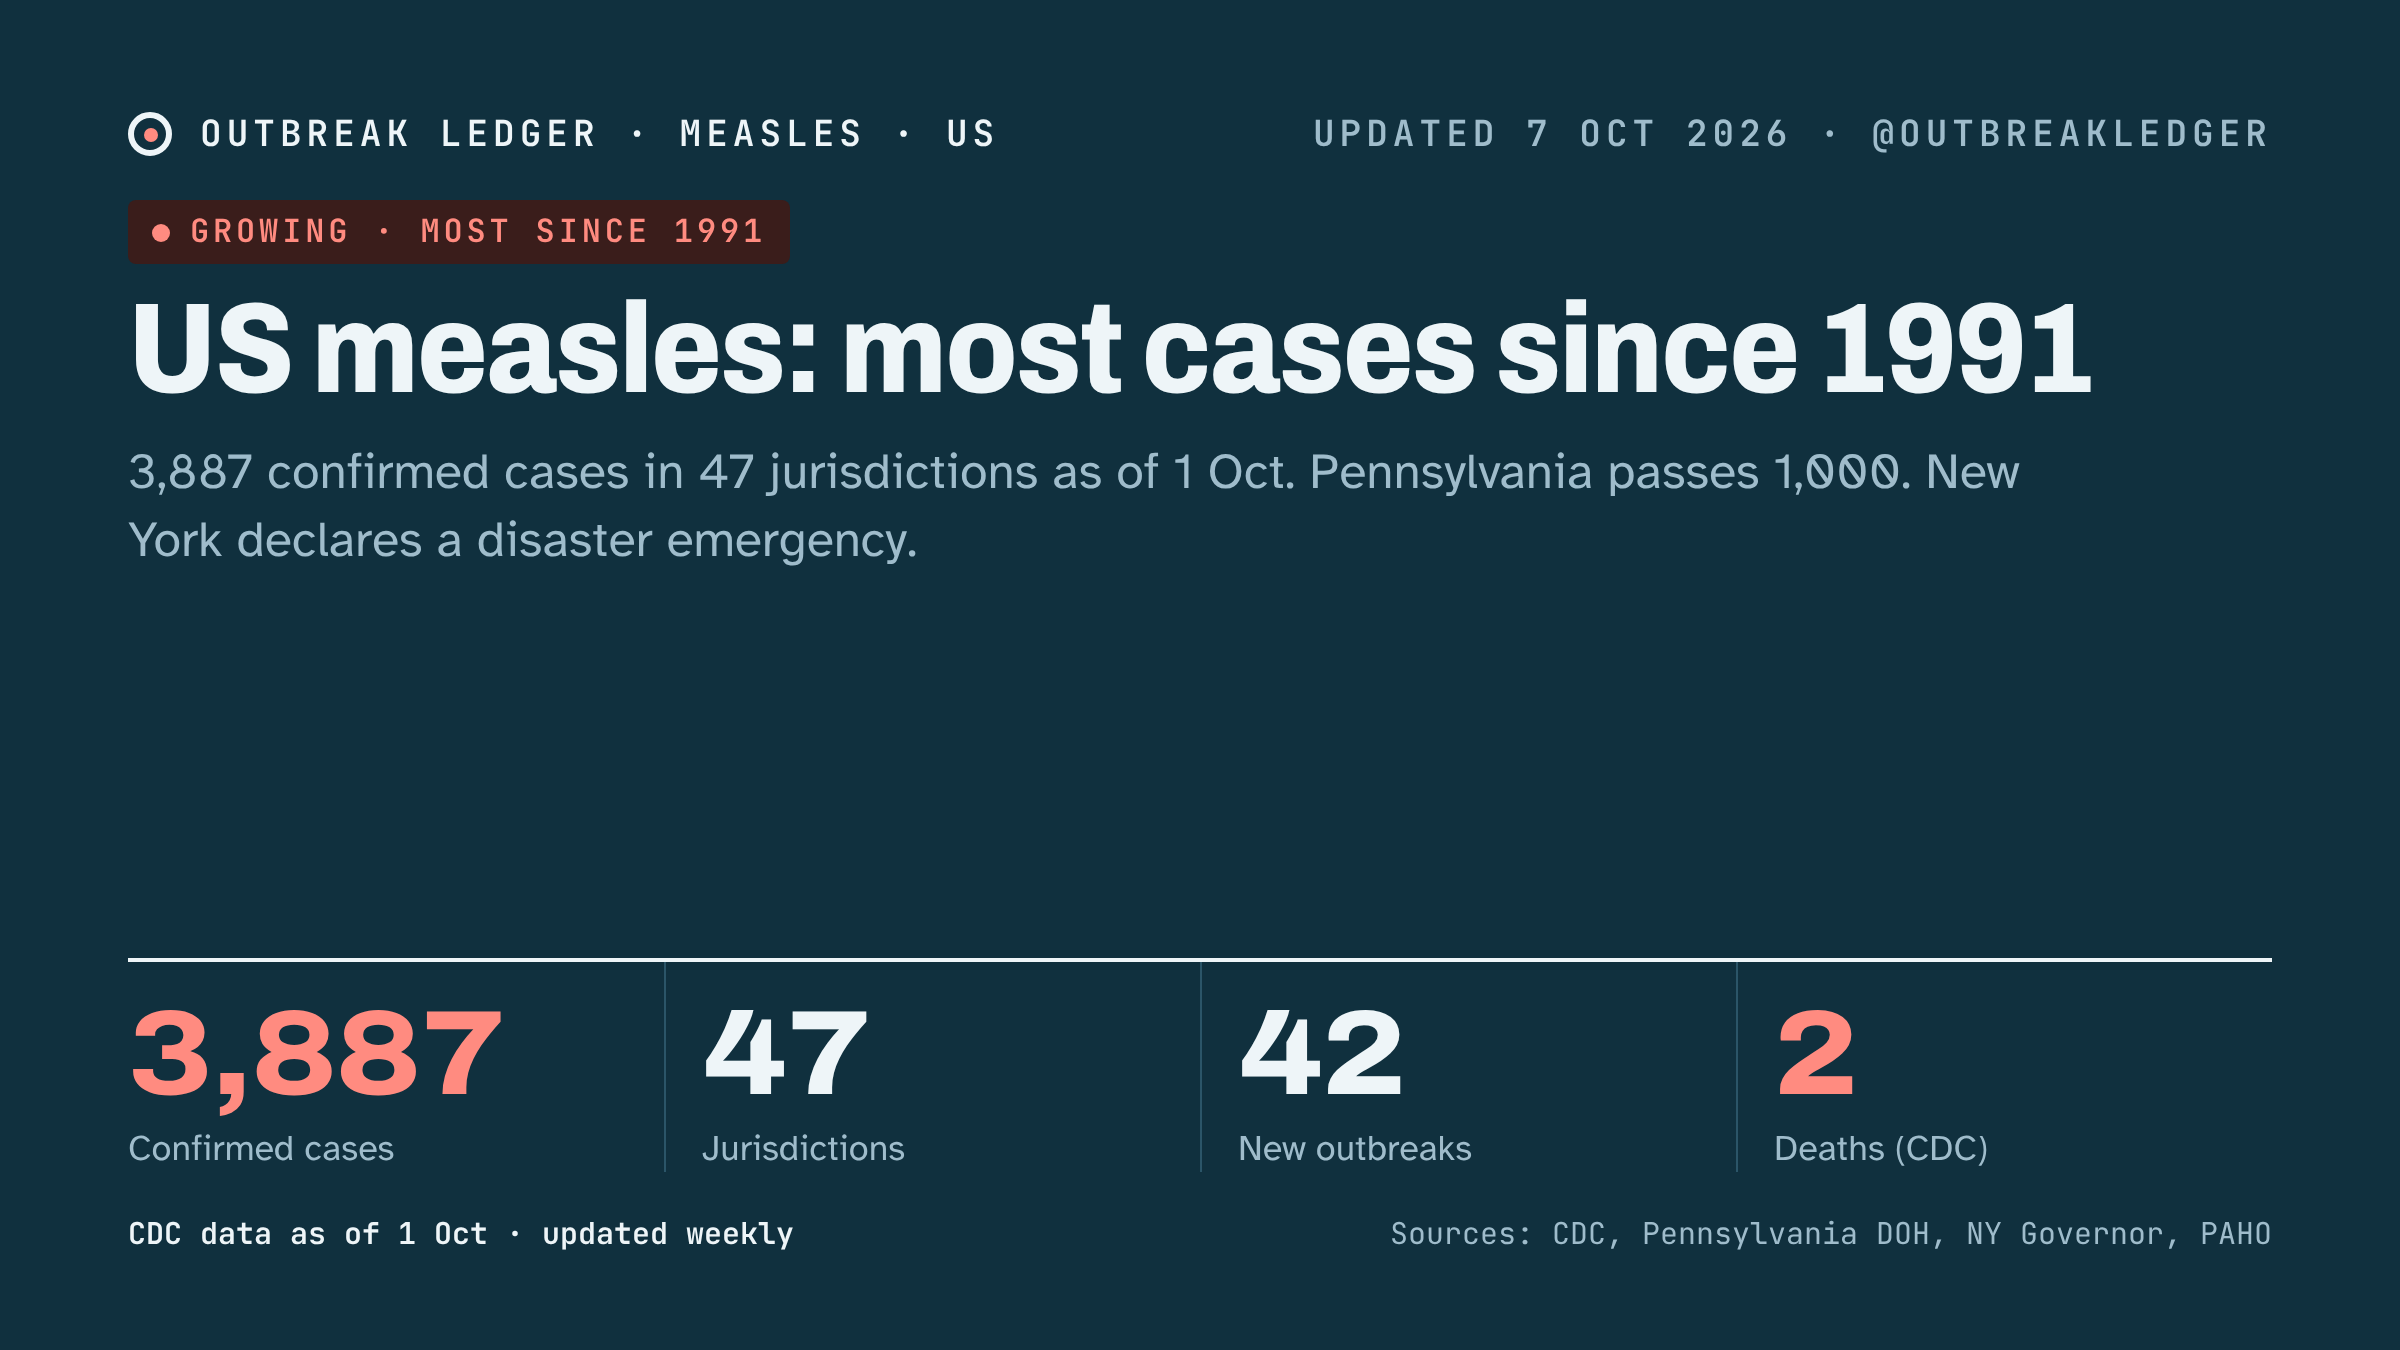
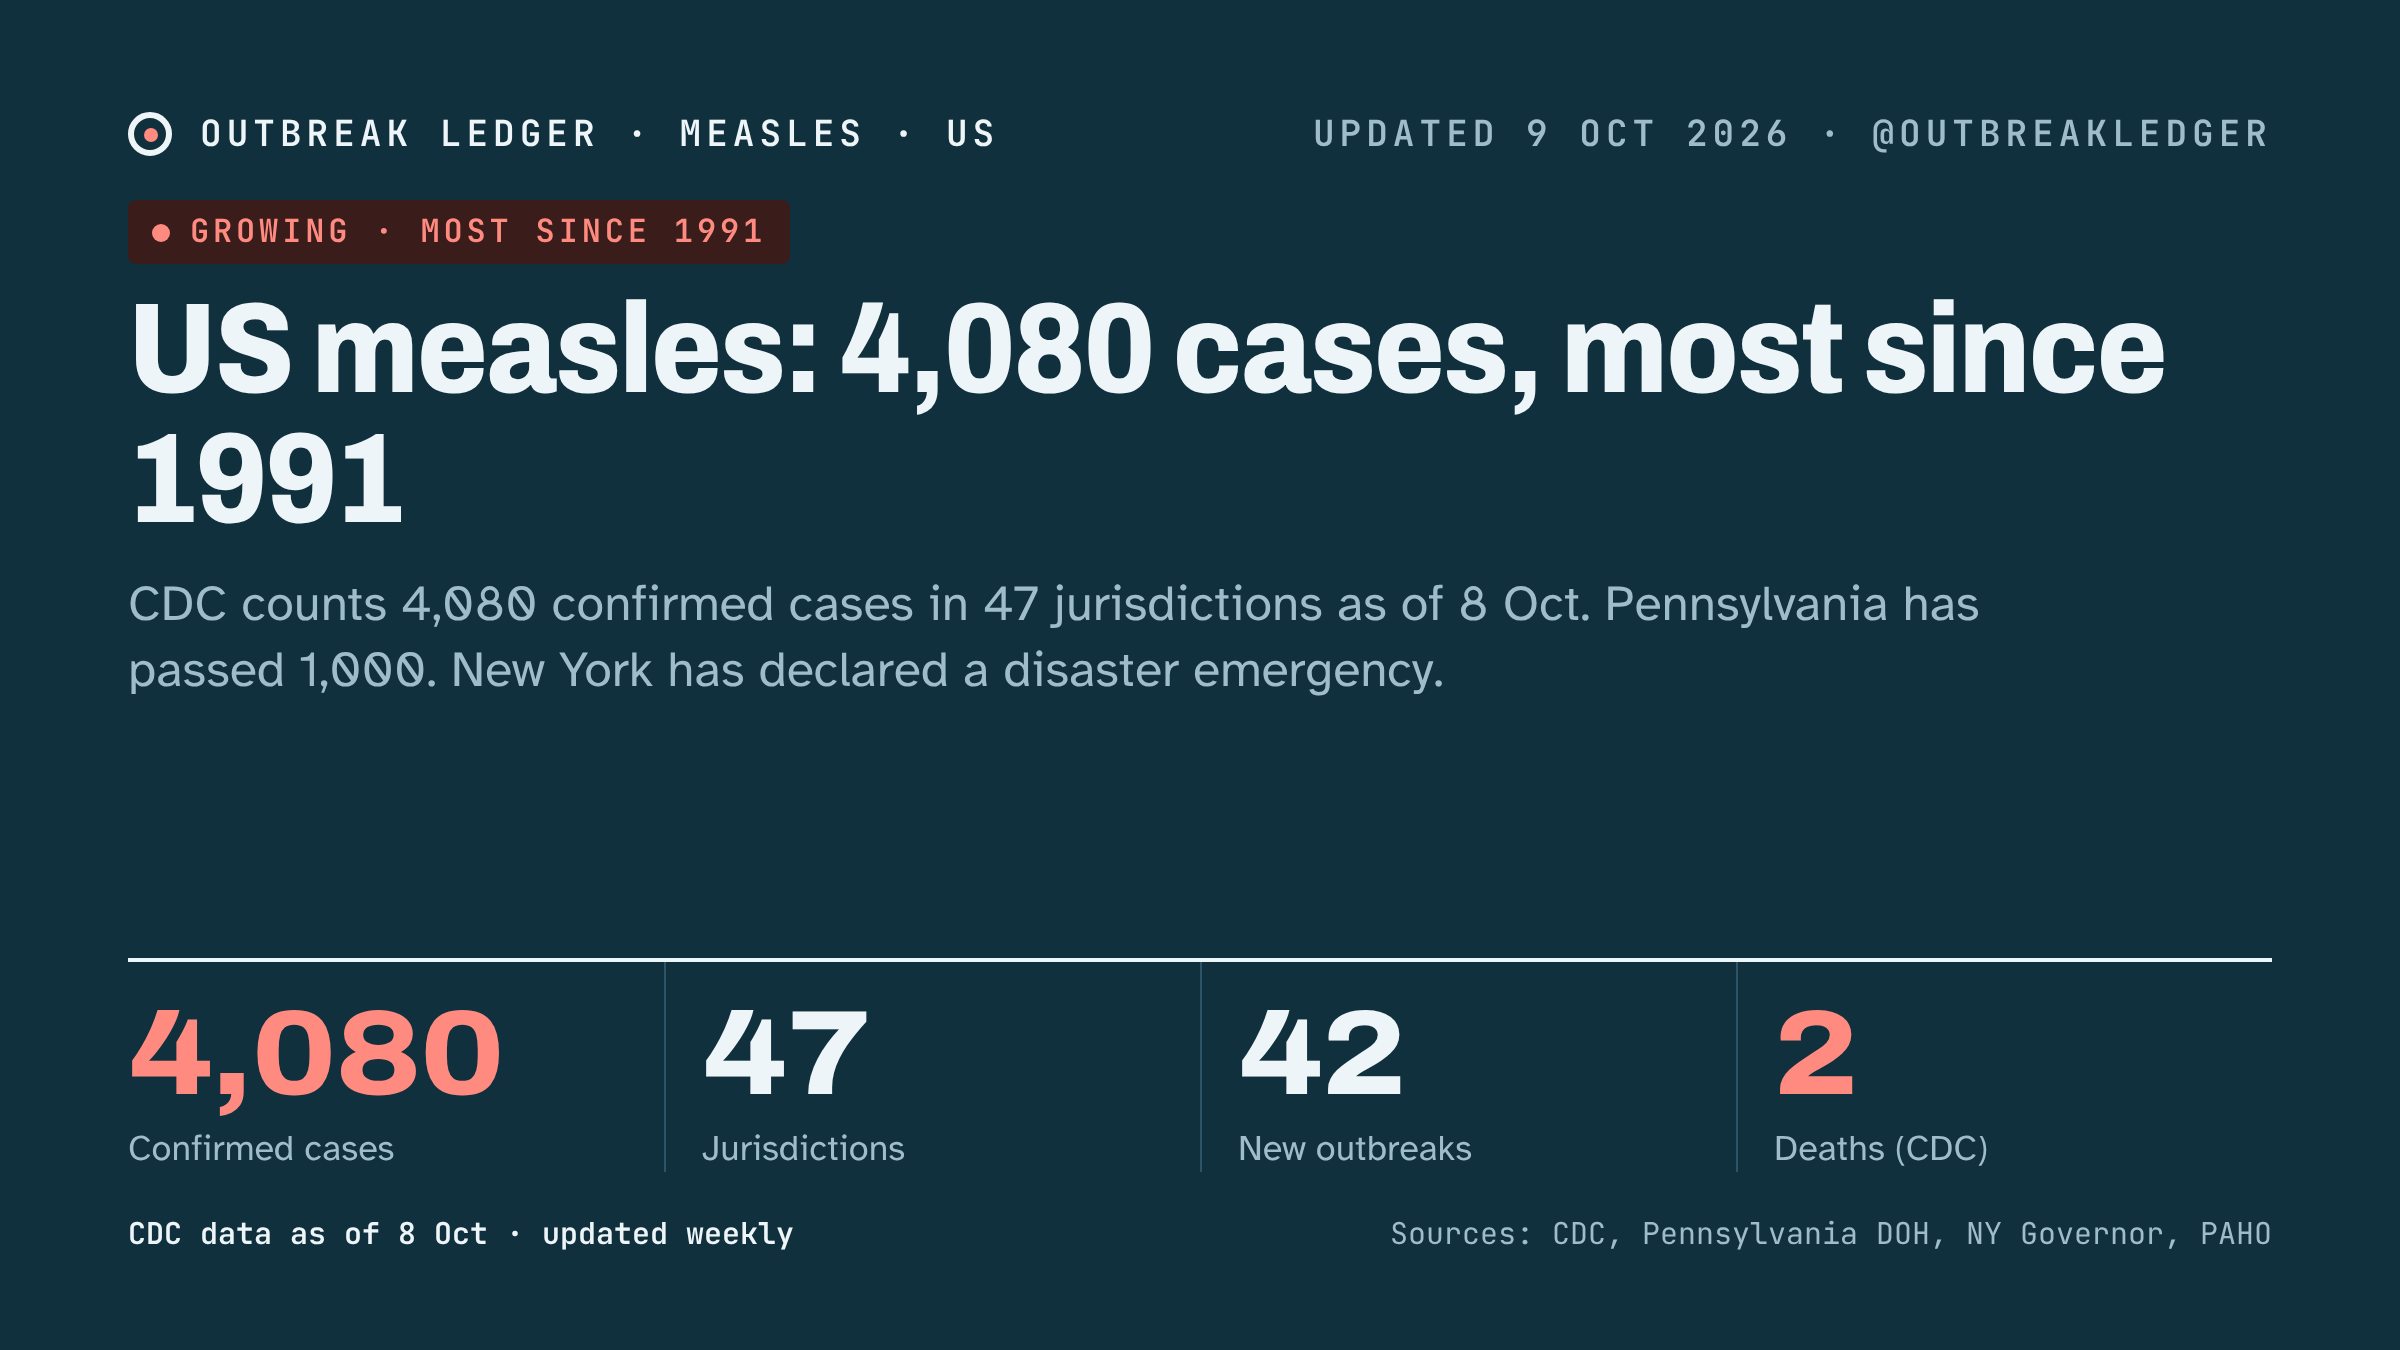
Trackers: measles CDC 8 Oct update (4,080 cases); others checked
Claude-Session: https://claude.ai/code/session_01DjK934MGj4uKY77RiACNyU

Changed region(s): [[0.0312, 0.3111, 0.8438, 0.5289], [0.3438, 0.2178, 0.9062, 0.3111], [0.0312, 0.7467, 0.2188, 0.8089]]

diff --git a/site/measles/share/latest-post.md b/site/measles/share/latest-post.md
@@ -1,6 +1,6 @@
-US measles cases hit 3,887 in 2026, the most since 1991 (CDC, 1 Oct). Pennsylvania passed 1,000 cases and 5 deaths by the state's count. New York declared a disaster emergency.
+US measles cases reach 4,080 in 2026, the most since 1991 (CDC, as of 8 Oct): 193 more than last week, in 47 jurisdictions. Pennsylvania has passed 1,000 cases and reports 5 deaths; CDC counts 2.
 
 Live, sourced tracker:
 https://nhlebe1.github.io/ai-scheduler-platform/measles/
 
-Sources: CDC via Contagion Live (2 Oct), Pennsylvania Dept. of Health (5 Oct), NY Governor's office (5 Oct).
+Sources: CDC via Reuters/U.S. News (9 Oct), Stateline (9 Oct), Contagion Live (9 Oct).
